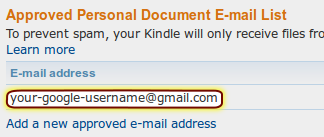
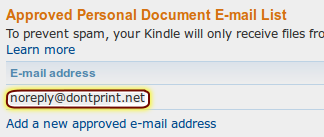
Adapt welcome page to new e-mail sending infrastructure.

Changed region(s): [[0.0309, 0.6131, 0.7099, 0.8467]]

diff --git a/chrome/content/dontprint/welcome/dontprint-welcome.html b/chrome/content/dontprint/welcome/dontprint-welcome.html
@@ -24,13 +24,13 @@ li{padding:0.3em 0}
 #postTransferCommandGroup{margin-left:1.5em}
 #postTransferContainer{width:33.5em;display:-moz-box}
 #postTransferCommandSwitch{margin-top:2ex}
-#test-email{display:block;margin:0.5em 0 1em 0}
 #email-prefix{text-align:right;width:12em}
 #email-other-container{margin-top:0.4ex; display:none}
 #email-other{width:25em}
 #k2pdfopt-file-selector{margin:0.5em 0}
-#test-email-waiting, #test-email-done{display:none}
-#test-email-address{font-style:italic}
+#sendVerificationCodeBtn{display:block;margin:0.5em 0 1em 0}
+#verificationCodeProgress{display:none;font-weight:bold}
+#verificationCode{width:5em}
 #questions-container{margin:1ex 0 2ex 0; background-color:#fff}
 #image-copyright{opacity:0.5; font-size:70%; text-align:right; margin-bottom:2ex; margin-top:1ex}
 </style>
@@ -125,19 +125,18 @@ Dontprint automatically optimizes the layout of articles so that you can read th
 	<td></td>
 	<td><div id="transferMethodEmailContainer" class="hint">
 		<div class="hint">
-Dontprint can send articles by e-mail directly to your e-reader. To use this feature, you need an e-mail address that ends in "@gmail.com" (<a href="http://robamler.github.com/dontprint/faq/index.html#q-setup-whygmail" target="_blank">why?</a>).
-Dontprint takes your privacy serious and gains only very limited access to your Gmail account (<a href="http://robamler.github.com/dontprint/faq/index.html#q-privacy-gmailaccess" target="_blank">more information on privacy</a>).
+Choose this option if your e-reader is able to receive documents via e-mail attachment.
+Dontprint sends documents to your e-reader from the sender address "<i>noreply@dontprint.net</i>".
 </div>
 
 <ol>
-<li>If you don't already have a Gmail account, <a href="https://accounts.google.com/SignUp?service=mail" target="_blank">create one for free</a>.</li>
 <li>
-If your e-reader is an Amazon Kindle you need to allow Dontprint to send documents to it.
-<div class="hint">Go to "<a href="http://website-g7g.amazon.co.uk/myk#pdocSettings" target="_blank">Manage Your Kindle</a>" on amazon.com and add your "...@gmail.com" address to the "<i>Approved Personal Document E-mail List</i>" (see image below; <a href="http://robamler.github.com/dontprint/faq/index.html#q-setup-approvedemail" target="_blank">help</a>).</div>
+Configure your e-reader to accept e-mails that are sent from "<i>noreply@dontprint.net</i>".
+<div class="hint">If your e-reader is an Amazon Kindle, go to "<a href="http://website-g7g.amazon.co.uk/myk#pdocSettings" target="_blank">Manage Your Kindle</a>" on amazon.com and add the address "<i>noreply@dontprint.net</i>" to the "<i>Approved Personal Document E-mail List</i>" (see image below; <a href="http://robamler.github.com/dontprint/faq/index.html#q-setup-approvedemail" target="_blank">help</a>):</div>
 <img class="screenshot" style="margin-top:2ex;margin-bottom:2ex;display:block" src="amazon-screenshot.png"></li>
 <li>Tell Dontprint your e-reader's e-mail address<span> (<a href="#" id="kindle-email-question">what's that?</a>)</span>:
 <div id="kindle-email-help" class="hint">
-Dontprint transfers documents wirelessly to your e-reader by e-mail. If your e-reader is an Amazon Kindle you find the e-mail address that is tied to your Kindle in the section "<i>Send-to-Kindle E-Mail Settings</i>" on the "<a href="http://website-g7g.amazon.co.uk/myk#pdocSettings" target="_blank">Manage Your Kindle</a>" page (see image below; <a href="http://robamler.github.com/dontprint/faq/index.html#q-setup-ereaderaddress" target="_blank">further help</a>). If your e-reader is not from Amazon then please consult the manual to find out if it can receive documents by e-mail.
+If your e-reader is an Amazon Kindle then you find the e-mail address that is tied to your Kindle in the section "<i>Send-to-Kindle E-Mail Settings</i>" on the "<a href="http://website-g7g.amazon.co.uk/myk#pdocSettings" target="_blank">Manage Your Kindle</a>" page (see image below; <a href="http://robamler.github.com/dontprint/faq/index.html#q-setup-ereaderaddress" target="_blank">further help</a>). If your e-reader is not from Amazon then please consult the manual to find out if it can receive documents by e-mail.
 <img src="amazon-screenshot2.png" class="screenshot">
 </div>
 <div><input type="text" required id="email-prefix" pattern="[^@ &quot;']+"><select id="email-suffix">
@@ -151,17 +150,19 @@ Dontprint transfers documents wirelessly to your e-reader by e-mail. If your e-r
 Full e-mail address: <input type="email" required id="email-other">
 </div>
 <div class="hint" id="warning-charges"><b>Warning:</b> You chose the e-mail suffix "<span id="warning-suffix"></span>". Articles will be delivered over the cellphone (3G) network if supported by your Kindle and if Wi-Fi is not available. <b>Amazon might charge for this.</b> To avoid charges, select the suffix "@free.kindle.com".</div></li>
-<li>To test your settings, we recommend to send a small test document to your e-reader.
-<input type="submit" id="test-email" value="Send a small test document to my e-reader now.">
-<div id="test-email-waiting" class="hint">Dontprint is sending a small test document to <span id="test-email-address"></span>. Please wait...</div>
-<div id="test-email-done" class="hint">Done sending test document. <a href="#" id="test-email-showresult">Show details.</a></div>
+<li>Verify your e-reader's e-mail address
+<div class="hint">To prevent abuse of our e-mail sending infrastructure, Dontprint sends a small test document with a random code to your e-reader.
+Once you received that code, enter it in the field below.</div>
+<input type="button" id="sendVerificationCodeBtn" value="Send verification code now.">
+<div id="verificationCodeProgress" class="hint"></div>
+Verification code: <input type="text" id="verificationCode"> <input type="button" id="verifyEmailBtn" value="Confirm.">
 </li>
 </ol>
 	</div></td>
 </tr>
 <tr>
 	<td><input type="radio" name="transferMethodChoice" value="directory" id="transferMethodDirectory"></td>
-	<td><label for="transferMethodDirectory">Save Documents to a directory (for e-readers that don't support e-mail transfer)</label></td>
+	<td><label for="transferMethodDirectory">Save documents to a directory (for e-readers that don't support e-mail transfer)</label></td>
 </tr>
 <tr>
 	<td></td>

diff --git a/chrome/content/dontprint/welcome/welcome.js b/chrome/content/dontprint/welcome/welcome.js
@@ -12,6 +12,7 @@ var prefs = Components.classes["@mozilla.org/preferences-service;1"]
 var progressArc = document.getElementById("progress-arc");
 var validK2pdfopt = false;
 var k2pdfoptPath;
+var emailVerified = false;
 
 var platforms = [
 	["win_32bit",	"32bit Windows"],
@@ -46,6 +47,7 @@ for (var i=0; i<platforms.length; i++) {
 }
 $("#platform-selector").html(selectorhtml);
 $("#platform-selector").val(platformstring);
+$("#sendVerificationCodeBtn,#verifyEmailBtn").removeAttr("disabled");
 
 function modelSelectListener(modelName) {
 	var model = ModelPicker.models[modelName];
@@ -296,7 +298,6 @@ $("#acceptstep3").prop("disabled", true);
 $("#email-suffix").change(emailSuffixChange);
 
 function emailSuffixChange() {
-	$("#test-email").removeAttr("disabled");
 	var v = $('#email-suffix').val();
 	if (v === "@free.kindle.com" || v === "other") {
 		$("#warning-charges").slideUp();
@@ -324,11 +325,6 @@ function emailSuffixChange() {
 		$("#email-other-container").slideUp();
 	}
 }
-
-$("#email-prefix").on("input", function() {
-	$("#test-email").removeAttr("disabled");
-});
-
 
 $("#kindle-email-question").click(function() {
 	$("#kindle-email-help").slideDown();
@@ -389,6 +385,10 @@ $("#acceptstep3").click(function() {
 	if (!saveStep3Prefs()) {
 		return false;
 	}
+	if ($("input[name='transferMethodChoice']:checked").val() === "email" && !emailVerified) {
+		alert("You have to verify your e-reader's e-mail address before you can continue. Alternatively, you can choose to save documents to a directory of your choice instead of sending them per e-mail.");
+		return false;
+	}
 	
 	$('#steps').slideUp();
 	$('#congrats').slideDown();
@@ -398,15 +398,63 @@ $("#acceptcongrats").click(function() {
 	close();
 });
 
-$("#test-email").click(function() {
+$("#sendVerificationCodeBtn").click(function() {
 	if (!saveStep3Prefs()) {
 		return false;
 	}
-	Dontprint.sendTestEmail(testEmailCallback);
-	$("#test-email").attr("disabled", "disabled");
-	$("#test-email-address").text(Dontprint.getRecipientEmail());
-	$("#test-email-done").slideUp();
-	$("#test-email-waiting").slideDown();
+	$("#sendVerificationCodeBtn").attr("disabled", "disabled");
+	$("#verificationCodeProgress").text("Sending verification code to " + Dontprint.getRecipientEmail() + ". Please wait...").slideDown();
+	$("#verificationCodeBtn").val("").focus();
+	Dontprint.sendVerificationCode(
+		function success(email, returncode, message) {
+			if (returncode === 0) {
+				$("#verificationCodeProgress").text("Verification code sent. Please wait until the document arrives on your e-reader and then enter the code below. You may have to manually select \"Sync\" on your device.");
+				$("#sendVerificationCodeBtn").removeAttr("disabled").text("Resend verification code");
+			} else if (returncode === 1) {
+				$("#verificationCodeProgress").text("The e-mail address had already been verified before. Click \"Accept and finish\" below to conclude the setup.");
+				emailVerified = true;
+				Dontprint.rememberVerifiedEmail(email);
+			}
+		},
+		function error(email, errno, message) {
+			$("#sendVerificationCodeBtn").removeAttr("disabled");
+			$("#verificationCodeProgress").text("Error: " + message);
+		},
+		function failure(email, xhr) {
+			$("#sendVerificationCodeBtn").removeAttr("disabled");
+			$("#verificationCodeProgress").text("Error: unable to connect to the Dontprint server. Are you connected to the internet?");
+		}
+	);
+});
+
+$("#verifyEmailBtn").click(function() {
+	var code = $("#verificationCode").val();
+	if (! /^\d{4}$/.test(code)) {
+		alert("The verification code must consist of four digits.");
+		$("#verificationCode").focus();
+		return false;
+	}
+	if (!saveStep3Prefs()) {
+		return false;
+	}
+	$("#verifyEmailBtn").attr("disabled", "disabled");
+	$("#verificationCodeProgress").text("Checking verification code. Please wait...").slideDown();
+	Dontprint.verifyEmailAddress(
+		code,
+		function success(email, returncode, message) {
+			emailVerified = true;
+			Dontprint.rememberVerifiedEmail(email);
+			$("#verificationCodeProgress").text("E-mail address successfully verified. Click \"Accept and finish\" below to conclude the setup.");
+		},
+		function error(email, errno, message) {
+			$("#verifyEmailBtn").removeAttr("disabled");
+			$("#verificationCodeProgress").text("Error: " + message);
+		},
+		function failure(email, xhr) {
+			$("#verifyEmailBtn").removeAttr("disabled");
+			$("#verificationCodeProgress").text("Error: unable to connect to the Dontprint server. Are you connected to the internet?");
+		}
+	);
 });
 
 
